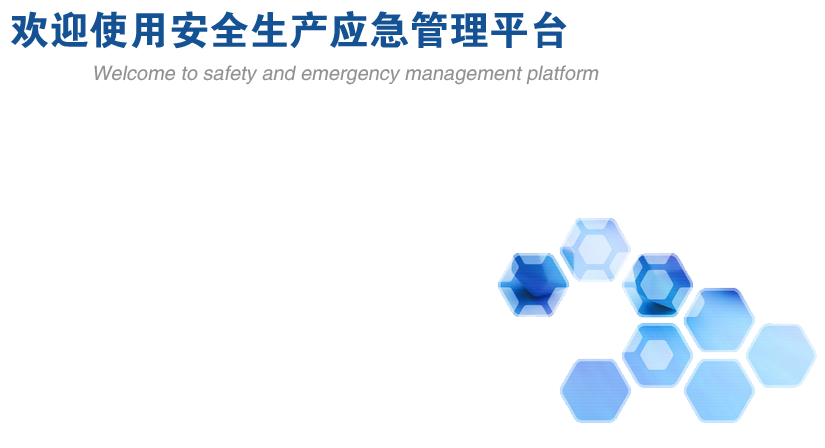
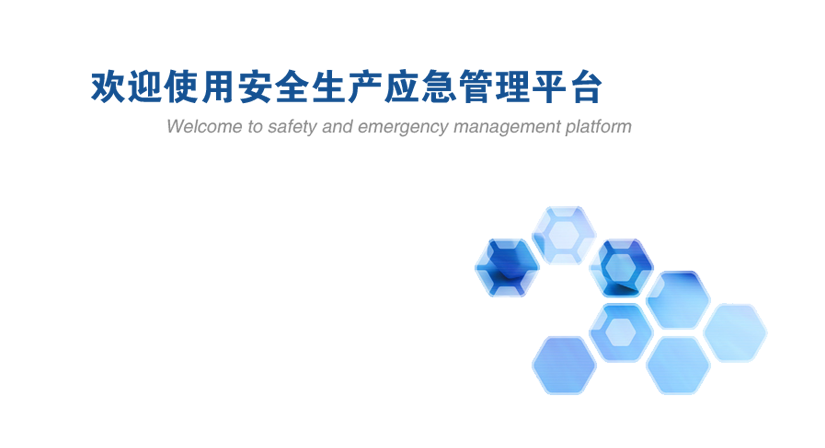
修改首页图标，修改footer.html

Changed region(s): [[0.0, 0.0312, 0.7576, 0.3125], [0.5758, 0.4375, 1.0, 0.9688]]

diff --git a/modules.core/core-web-resources/src/main/resources/custome/Styles/admin-all.css b/modules.core/core-web-resources/src/main/resources/custome/Styles/admin-all.css
@@ -108,7 +108,7 @@
     top: 105px;
     left: 8px;
     overflow: hidden;
-    bottom: 34px;
+    bottom: 10px;
     background-color: #e9f4ff;
     border-top-width: 1px;
     border-right-width: 1px;
@@ -258,7 +258,7 @@ table thead tr td {
     position: relative;
     background: #e9f4ff;
     position: absolute;
-    bottom: 34px;
+    bottom: 10px;
     left: 260px;
     top: 105px;
     border-top: 1px solid #155293;
@@ -287,7 +287,7 @@ table thead tr td {
     top: 113px;
     overflow: auto;
     right: 8px;
-    bottom: 42px;
+    bottom: 18px;
     /*z-index: 1;*/
     padding: 8px;
 }
@@ -309,5 +309,5 @@ table thead tr td {
     width: 100%;
     text-align: center;
     color: #FFFFFF;
-    padding: 8px 0;
+    padding: 5px 0;
 }

diff --git a/modules.core/core-web-resources/src/main/resources/urgent/media/css/login.css b/modules.core/core-web-resources/src/main/resources/urgent/media/css/login.css
@@ -10,11 +10,21 @@ Login page
     background-position: center top;
 }
 
+.login_wk {
+    height: 575px;
+    width: 772px;
+    margin-top: -337px;
+    margin-left: -386px;
+    position: absolute;
+    left: 50%;
+    top: 50%;
+}
+
 .login .logo {
-    width: 608px;
+    width: 772px;
     margin-top: 0px;
     text-align: center;
-    height: 343px;
+    height: 177px;
     margin-right: auto;
     margin-bottom: 0;
     margin-left: auto;

diff --git a/modules.core/core-web-wicket/src/main/resources/com/daren/core/web/wicket/security/SignInPage.html b/modules.core/core-web-wicket/src/main/resources/com/daren/core/web/wicket/security/SignInPage.html
@@ -47,7 +47,8 @@
 
 </style>
 <body class="login">
-<!-- BEGIN LOGO -->
+<div class="login_wk">
+    <!-- BEGIN LOGO -->
 <div class="logo">
     <img src="cus/img/login_logo_top.png" alt=""/>
 </div>
@@ -162,6 +163,7 @@
     </script>
     <!-- END JAVASCRIPTS -->
 
+</div>
 </div>
 </body>
 </html>

diff --git a/modules.core/core-web-resources/src/main/resources/urgent/media/css/bootstrap.min.css b/modules.core/core-web-resources/src/main/resources/urgent/media/css/bootstrap.min.css
@@ -5039,7 +5039,7 @@ a.label:hover, a.label:focus, a.badge:hover, a.badge:focus {
 }
 
 .label-inverse, .badge-inverse {
-    background-color: #333
+    background-color: #1e7ac9
 }
 
 .label-inverse[href], .badge-inverse[href] {

diff --git a/modules.core/core-web-wicket/src/main/resources/com/daren/core/web/wicket/FooterPage.html b/modules.core/core-web-wicket/src/main/resources/com/daren/core/web/wicket/FooterPage.html
@@ -2,7 +2,7 @@
 <html xmlns:wicket="http://wicket.apache.org">
 <body>
 <wicket:panel>
-    Copyright &copy;2014-2015 吉林省达仁科技有限公司 版权所有
+
 </wicket:panel>
 </body>
 </html>

diff --git a/modules.admin/admin-webapp-wicket/src/main/java/com/daren/admin/webapp/wicket/UserMenuItemsModule.java b/modules.admin/admin-webapp-wicket/src/main/java/com/daren/admin/webapp/wicket/UserMenuItemsModule.java
@@ -1,6 +1,5 @@
 package com.daren.admin.webapp.wicket;
 
-import com.daren.admin.webapp.wicket.example.Select2PageTest;
 import com.daren.admin.webapp.wicket.page.UserListPage;
 import com.daren.core.web.api.module.IMenuItemsModule;
 import org.apache.wicket.markup.html.WebMarkupContainer;
